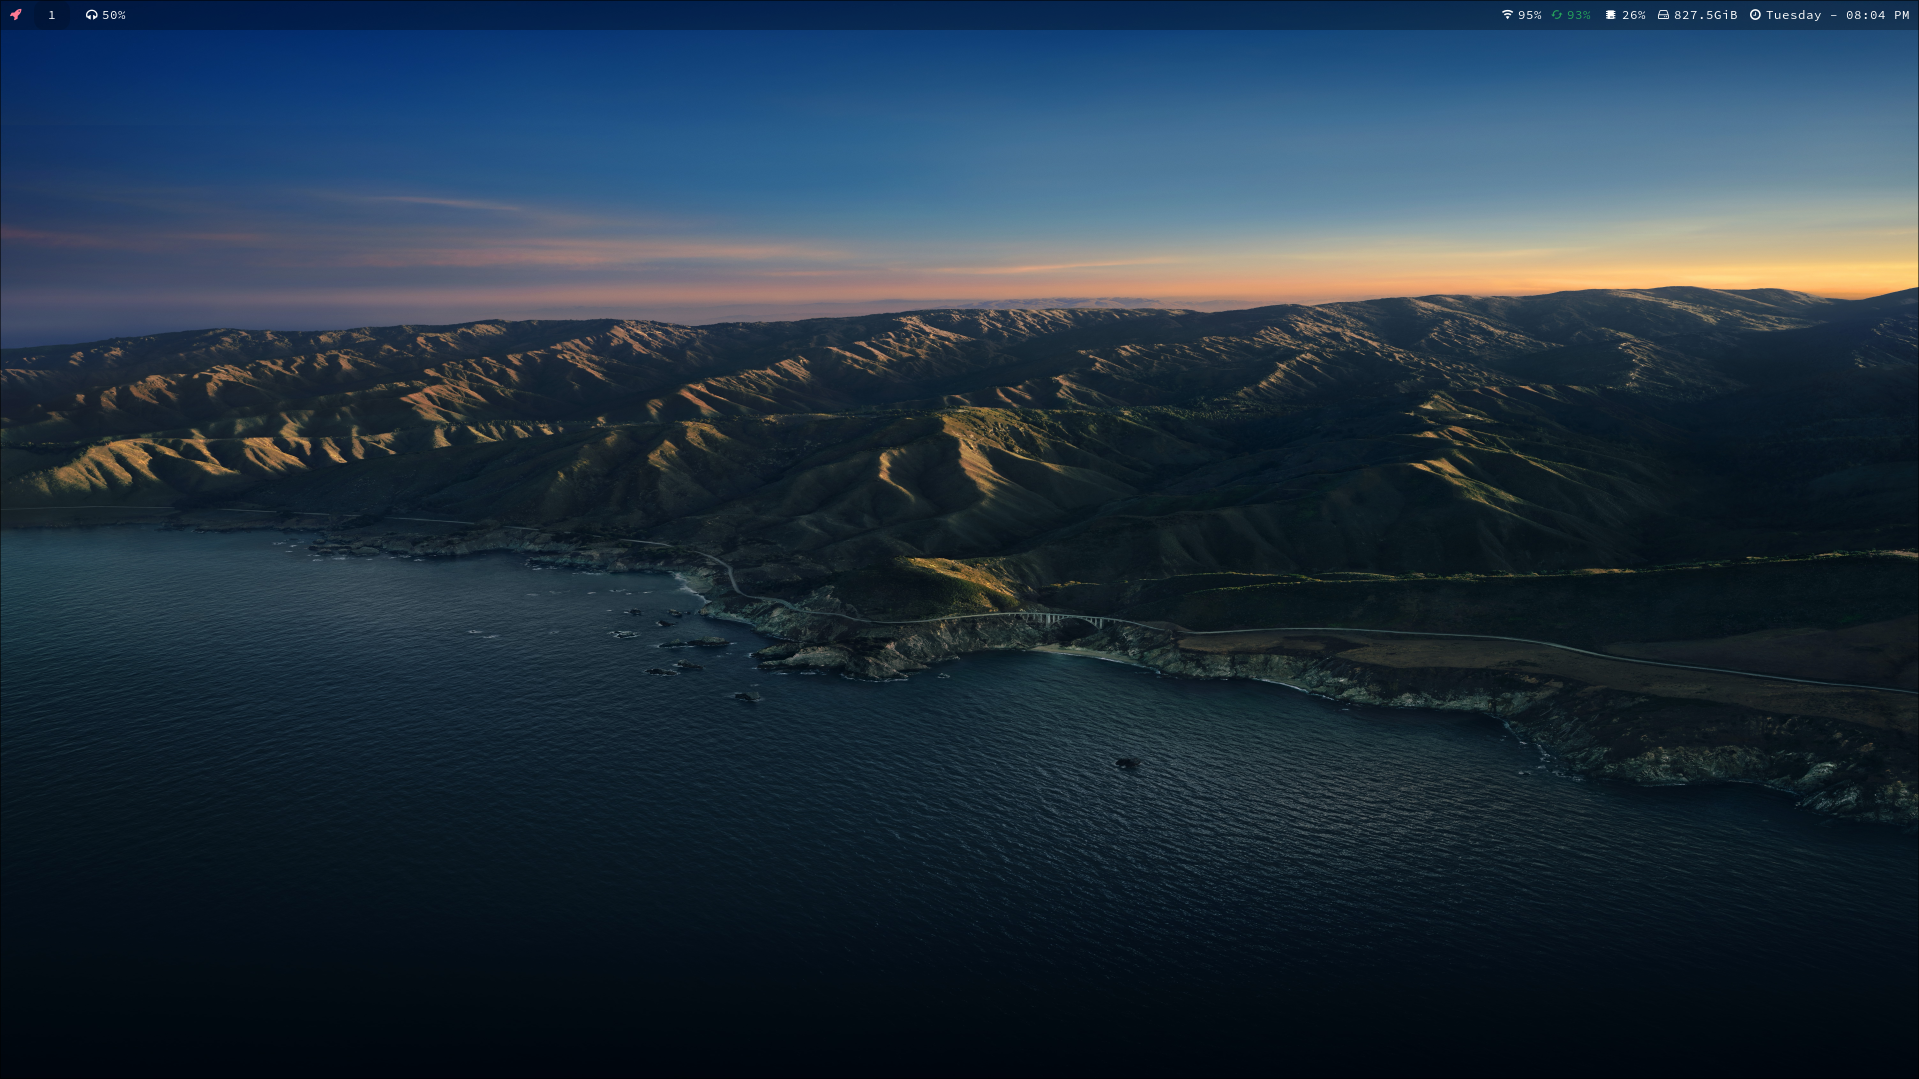
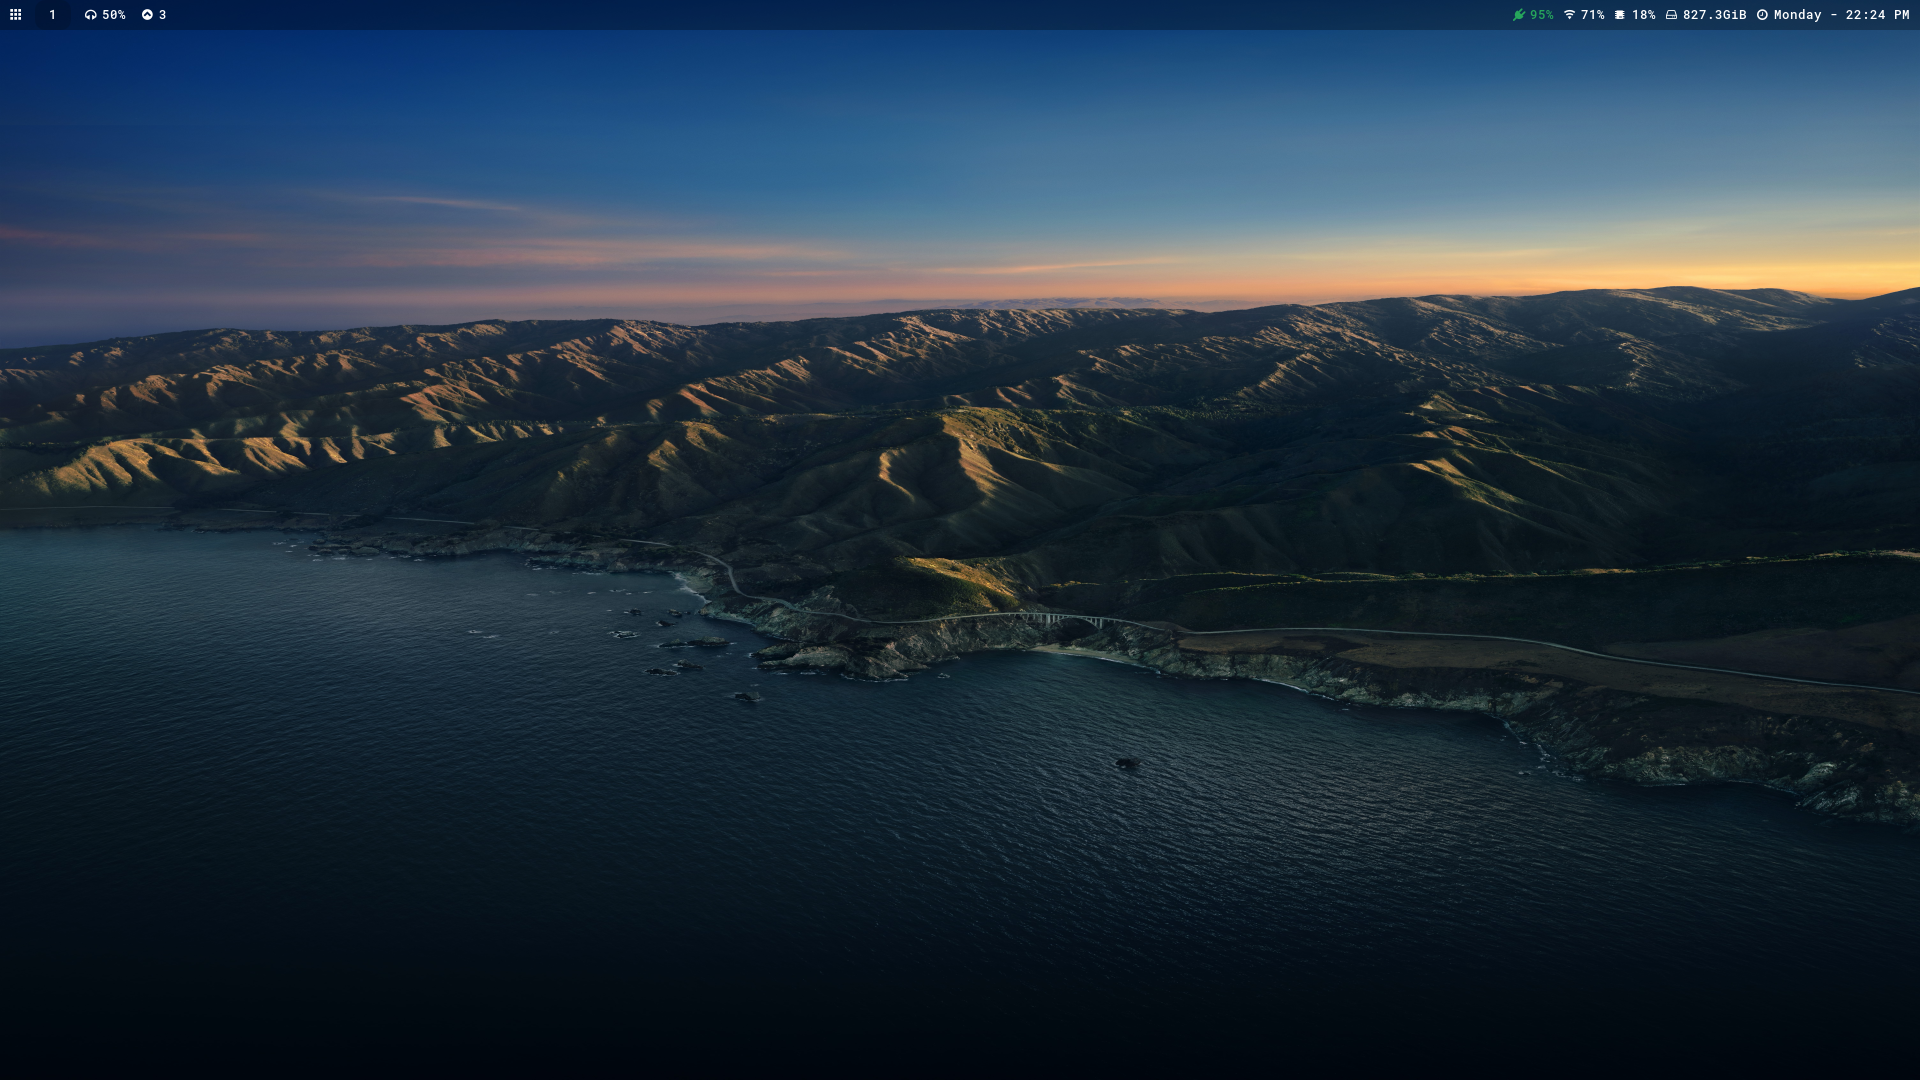
fix styles for waybar

Changed region(s): [[0.7686, 0.0, 1.0, 0.0306], [0.0, 0.0, 0.0922, 0.0306], [0.6764, 0.734, 0.7379, 0.7646]]

diff --git a/waybar/.config/waybar/style.css b/waybar/.config/waybar/style.css
@@ -68,15 +68,11 @@ window#waybar.hidden {
 #network,
 #pulseaudio {
   color: #ffffff;
-  padding: 0 8px;
+  padding: 0 6px;
 }
 
 #clock {
   padding-right: 10px;
-}
-
-#battery {
-  padding: 0 3px;
 }
 
 #window,
@@ -96,7 +92,9 @@ window#waybar.hidden {
 
 /* Custom Launcher Modules */
 #custom-launcher {
+  /* padding-left: 10px; */
   padding-left: 10px;
+  padding-right: 6px;
   /* color: #ff7a93; */
   font-size: 16px;
 }
@@ -144,10 +142,6 @@ label:focus {
 }
 
 /* Network Modules */
-#network {
-  padding: 2.5px;
-}
-
 #network:hover {
   background: rgba(0, 0, 0, 0.2);
   box-shadow: None;
